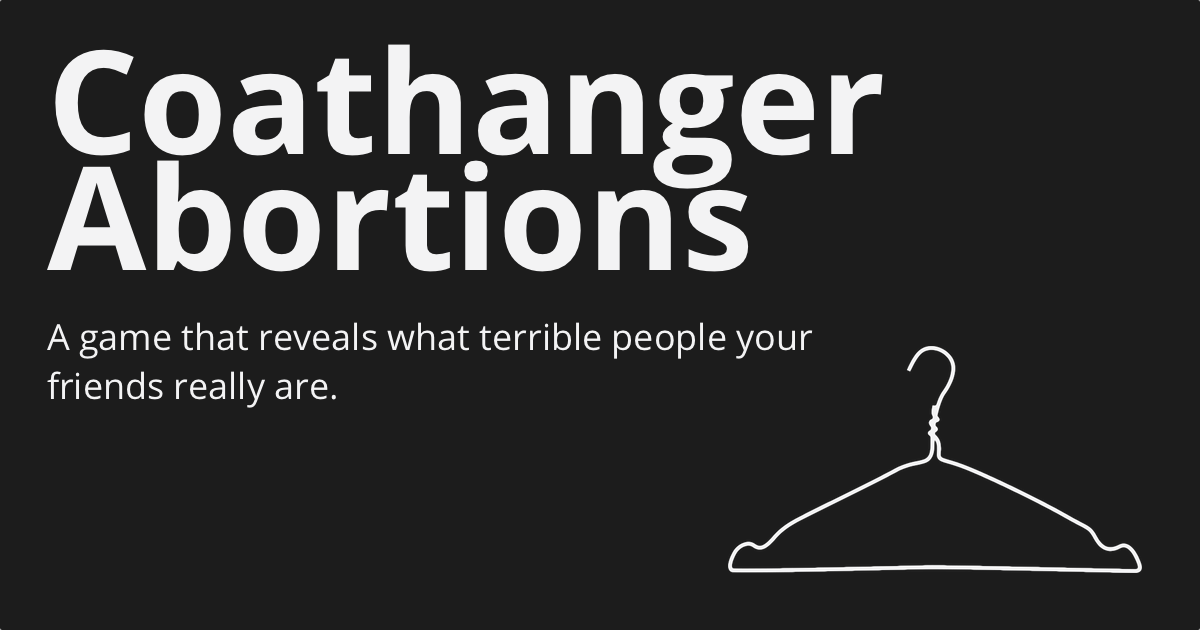
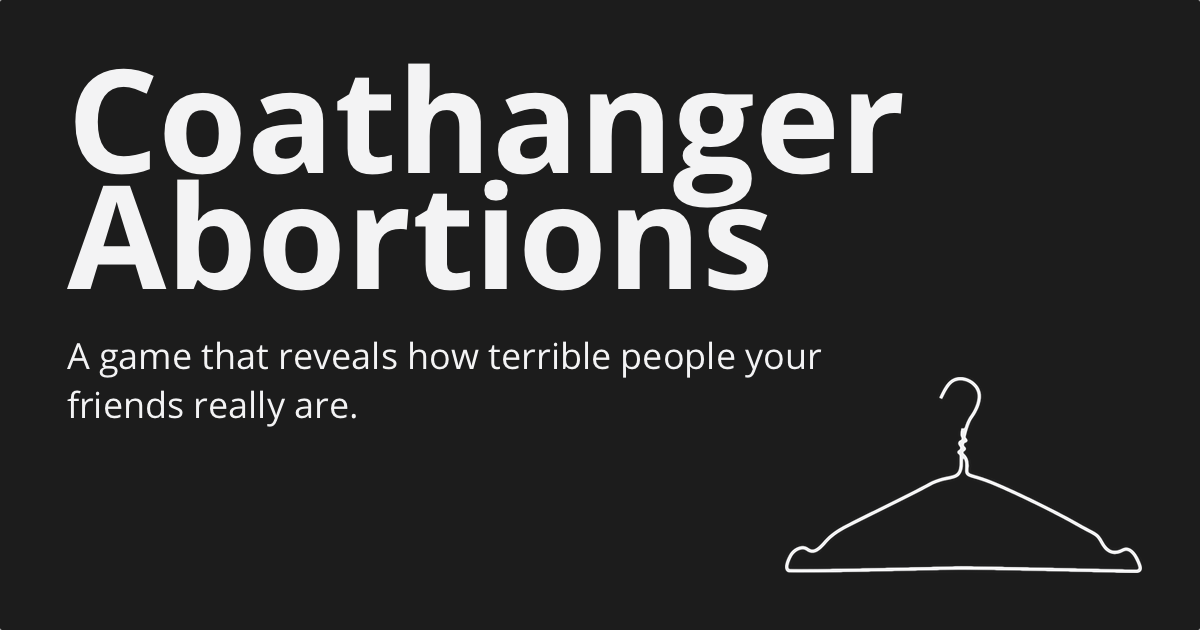
fix typo

Changed region(s): [[0.0308, 0.0603, 0.7708, 0.4825], [0.0308, 0.5127, 0.6783, 0.6635], [0.5858, 0.5429, 0.9558, 0.9349]]

diff --git a/app/src/components/JoinLayout.tsx b/app/src/components/JoinLayout.tsx
@@ -19,7 +19,7 @@ class JoinLayout extends React.Component {
                   Abortions
                 </Typography>
                 <Typography variant="body1">
-                  A game that reveals what terrible people your friends really are.
+                  A game that reveals how terrible people your friends really are.
                 </Typography>
               </Box>
             </GridContentVerticalCenter>
